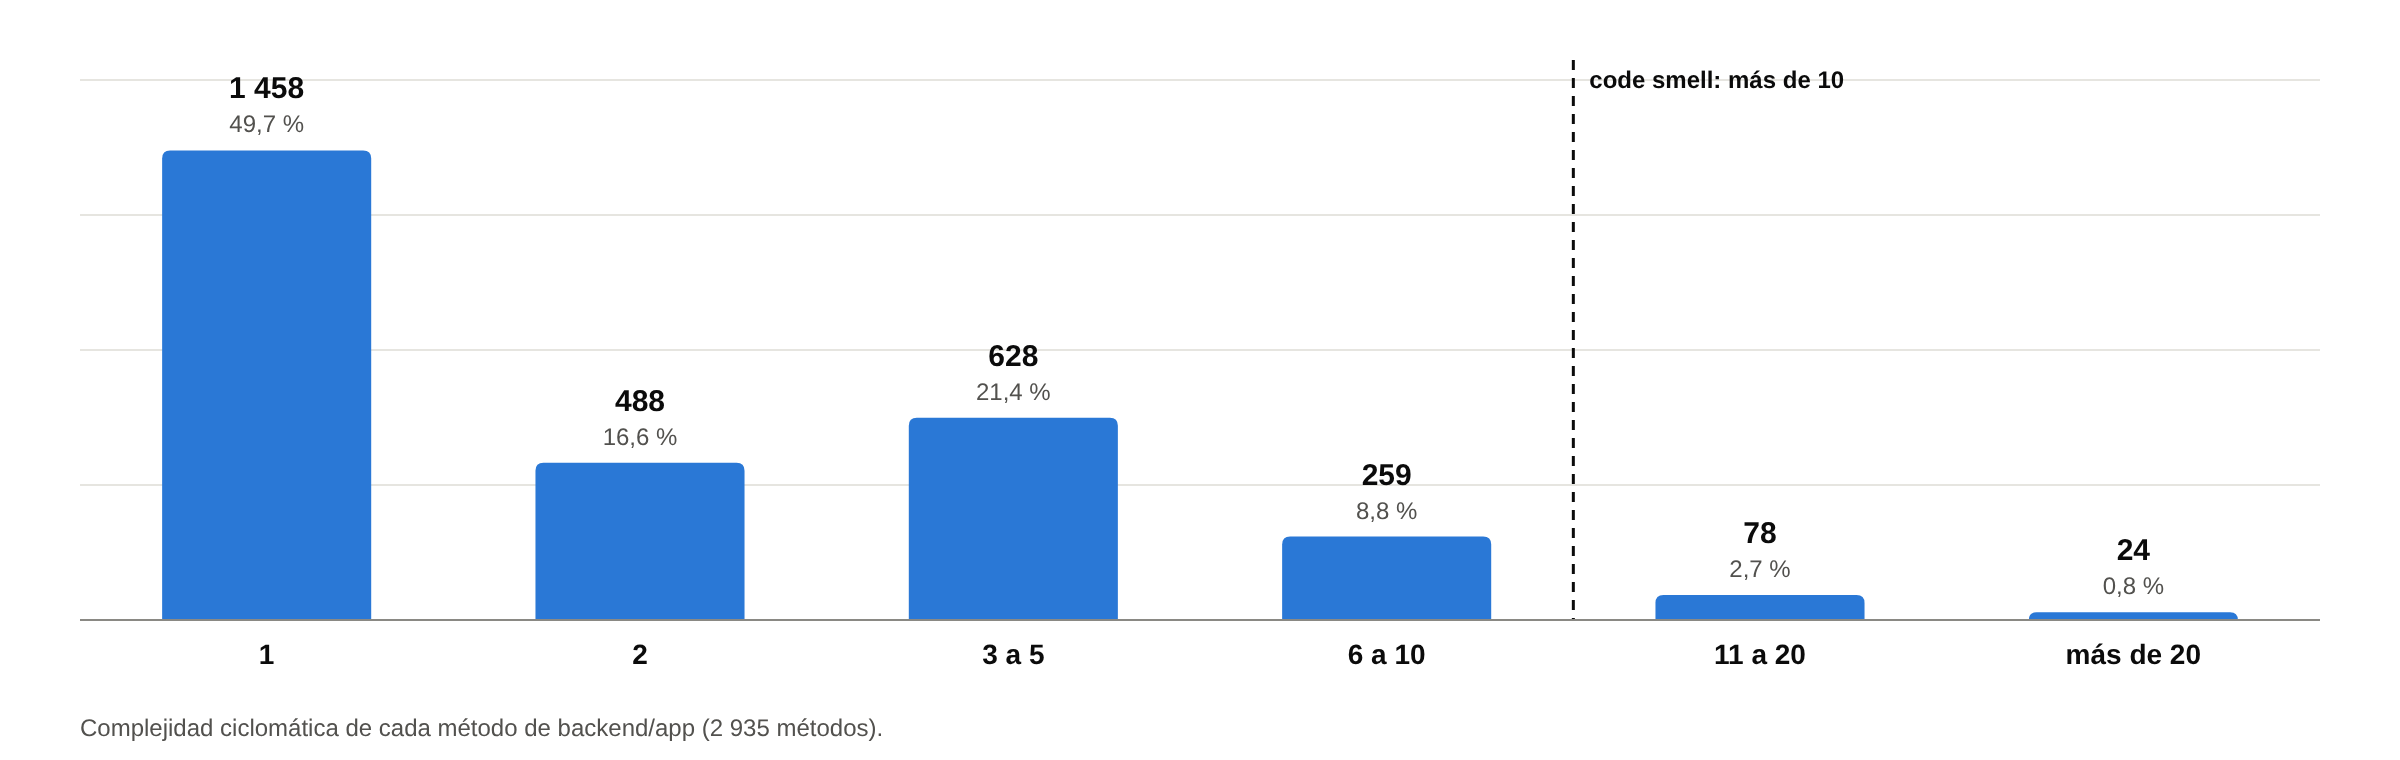
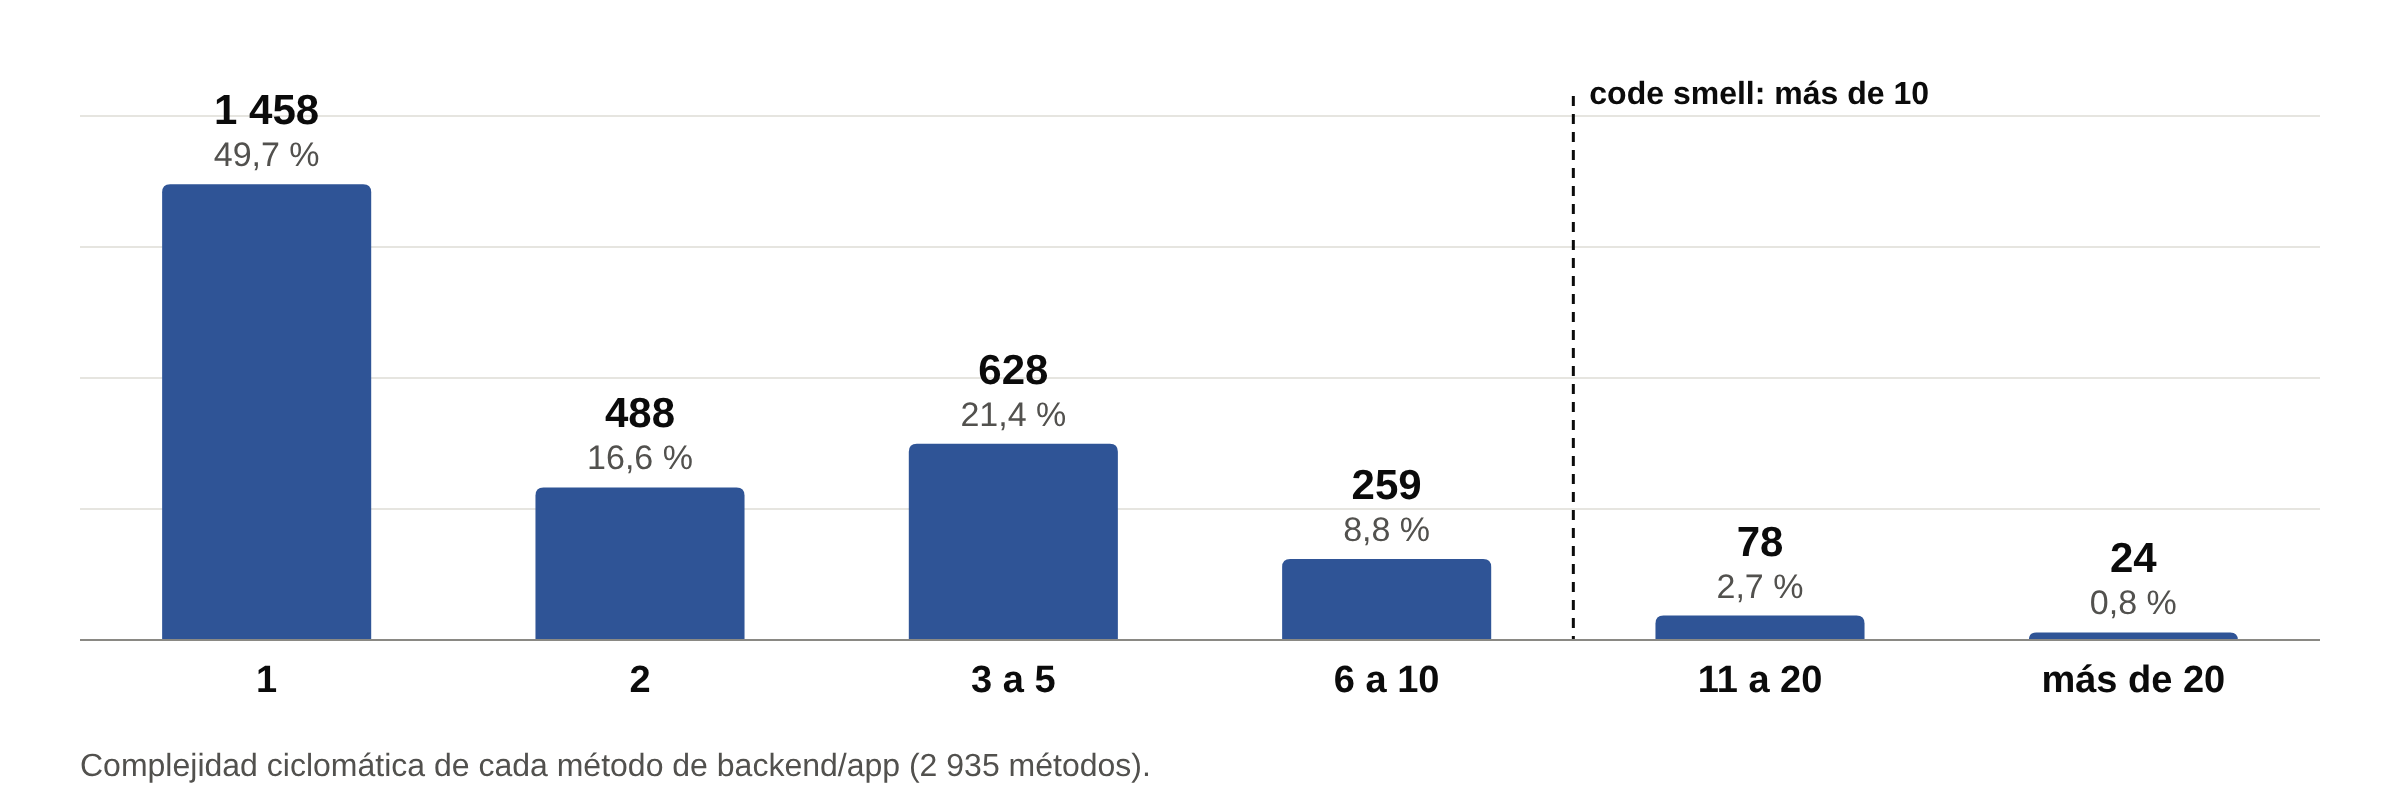
CE0241/CE0243: gráficos del E4 con letra más grande y el azul de los Word
Mismos datos que antes (reporte Clover y métricas del 19/11/2026, burnup.json); solo cambian letra y color.

Claude-Session: https://claude.ai/code/session_01BZKyWERKWSziZ7rrDHoBMv

diff --git a/docs/entregables/CE02-ingenieria-de-software/E4-gestion-y-calidad/calidad/graficos-calidad.py b/docs/entregables/CE02-ingenieria-de-software/E4-gestion-y-calidad/calidad/graficos-calidad.py
@@ -1,8 +1,9 @@
 """Gráficos de calidad del E4: cobertura de líneas por capa y complejidad ciclomática de los métodos.
 
 Lee el reporte Clover de PHPUnit (pcov) y la salida --json de medir-codigo.php, y escribe dos SVG que después se
-pasan a PNG (por ejemplo con Playwright, a 2x). Un solo color de serie, rejilla suave y el valor escrito en cada
-barra, como los gráficos de avance de agil/graficos-avance.py.
+pasan a PNG (por ejemplo con Playwright, a 2x). Un solo color de serie (el azul de los Word), rejilla suave y el
+valor escrito en cada barra, como los gráficos de avance de agil/graficos-avance.py. El SVG mide 1200 de ancho y
+va a 15 o 16 cm en el Word: las letras de 16 a 21 px quedan en 6 a 8 puntos impresos.
 
 Uso, desde la raíz del repositorio:
   php docs/entregables/CE02-ingenieria-de-software/E4-gestion-y-calidad/calidad/medir-codigo.php --json > metricas.json
@@ -15,7 +16,7 @@ import sys
 import xml.etree.ElementTree as ET
 from pathlib import Path
 
-INK, INK2, MUTED, GRID, BLUE = '#0b0b0b', '#52514e', '#8a8984', '#e6e5e0', '#2a78d6'
+INK, INK2, MUTED, GRID, BLUE = '#0b0b0b', '#52514e', '#8a8984', '#e6e5e0', '#2f5496'
 FONT = 'font-family:Arial,Helvetica,sans-serif'
 
 # Capa del backend según la carpeta de app/ (la primera que coincide).
@@ -52,37 +53,37 @@ def cobertura_por_capa(clover: Path) -> list[tuple[str, int, int]]:
 
 
 def barras_horizontales(filas: list[tuple[str, int, int]], meta: float) -> str:
-    ancho, izquierda, derecha, alto_fila = 1200, 330, 150, 34
-    arriba = 46
-    alto = arriba + alto_fila * len(filas) + 40
+    ancho, izquierda, derecha, alto_fila = 1200, 370, 200, 34
+    arriba = 52
+    alto = arriba + alto_fila * len(filas) + 46
     plot = ancho - izquierda - derecha
     x = lambda porcentaje: izquierda + plot * porcentaje / 100  # noqa: E731
     svg = [f'<svg xmlns="http://www.w3.org/2000/svg" width="{ancho}" height="{alto}" viewBox="0 0 {ancho} {alto}">',
            '<rect width="100%" height="100%" fill="#fff"/>']
     for porcentaje in range(0, 101, 20):
-        svg.append(f'<line x1="{x(porcentaje)}" x2="{x(porcentaje)}" y1="{arriba - 6}" y2="{alto - 34}" stroke="{GRID}"/>')
-        svg.append(f'<text x="{x(porcentaje)}" y="{alto - 14}" text-anchor="middle" style="{FONT};font-size:12px" '
+        svg.append(f'<line x1="{x(porcentaje)}" x2="{x(porcentaje)}" y1="{arriba - 6}" y2="{alto - 40}" stroke="{GRID}"/>')
+        svg.append(f'<text x="{x(porcentaje)}" y="{alto - 14}" text-anchor="middle" style="{FONT};font-size:16px" '
                    f'fill="{INK2}">{porcentaje} %</text>')
-    svg.append(f'<line x1="{x(meta)}" x2="{x(meta)}" y1="{arriba - 14}" y2="{alto - 34}" stroke="{INK}" '
+    svg.append(f'<line x1="{x(meta)}" x2="{x(meta)}" y1="{arriba - 14}" y2="{alto - 40}" stroke="{INK}" '
                'stroke-width="1.5" stroke-dasharray="5 4"/>')
-    svg.append(f'<text x="{x(meta)}" y="{arriba - 20}" text-anchor="middle" style="{FONT};font-size:12px;font-weight:700" '
+    svg.append(f'<text x="{x(meta)}" y="{arriba - 20}" text-anchor="middle" style="{FONT};font-size:16px;font-weight:700" '
                f'fill="{INK}">mínimo de la CI: {meta:.0f} %</text>')
     for i, (nombre, total, cubiertas) in enumerate(filas):
         porcentaje = 100 * cubiertas / total
         y = arriba + i * alto_fila
-        alto_barra = alto_fila - 12
+        alto_barra = alto_fila - 10
         largo = x(porcentaje) - izquierda
-        svg.append(f'<text x="{izquierda - 12}" y="{y + alto_barra / 2 + 5}" text-anchor="end" '
-                   f'style="{FONT};font-size:14px" fill="{INK}">{nombre}</text>')
+        svg.append(f'<text x="{izquierda - 12}" y="{y + alto_barra / 2 + 7}" text-anchor="end" '
+                   f'style="{FONT};font-size:20px" fill="{INK}">{nombre}</text>')
         svg.append(f'<path d="M{izquierda},{y} H{izquierda + largo - 4} Q{izquierda + largo},{y} {izquierda + largo},{y + 4} '
                    f'V{y + alto_barra - 4} Q{izquierda + largo},{y + alto_barra} {izquierda + largo - 4},{y + alto_barra} '
                    f'H{izquierda} Z" fill="{BLUE}"/>')
         texto = f'{porcentaje:.1f} %'.replace('.', ',')
-        svg.append(f'<text x="{izquierda + largo + 8}" y="{y + alto_barra / 2 + 5}" style="{FONT};font-size:14px;'
+        svg.append(f'<text x="{izquierda + largo + 8}" y="{y + alto_barra / 2 + 7}" style="{FONT};font-size:20px;'
                    f'font-weight:700" fill="{INK}" stroke="#fff" stroke-width="5" paint-order="stroke">{texto}</text>')
-        svg.append(f'<text x="{ancho - 8}" y="{y + alto_barra / 2 + 5}" text-anchor="end" style="{FONT};font-size:12px" '
+        svg.append(f'<text x="{ancho - 8}" y="{y + alto_barra / 2 + 6}" text-anchor="end" style="{FONT};font-size:17px" '
                    f'fill="{INK2}">{miles(cubiertas)} de {miles(total)}</text>')
-    svg.append(f'<line x1="{izquierda}" x2="{izquierda}" y1="{arriba - 6}" y2="{alto - 34}" stroke="{MUTED}"/>')
+    svg.append(f'<line x1="{izquierda}" x2="{izquierda}" y1="{arriba - 6}" y2="{alto - 40}" stroke="{MUTED}"/>')
     svg.append('</svg>')
     return '\n'.join(svg)
 
@@ -92,7 +93,7 @@ def histograma_complejidad(metricas: dict) -> str:
     complejidades = [metodo['complejidad'] for metodo in metricas['metodos']]
     cuentas = [sum(1 for c in complejidades if desde <= c <= hasta) for _, desde, hasta in rangos]
     total = len(complejidades)
-    ancho, alto, izquierda, derecha, arriba, abajo = 1200, 380, 40, 40, 40, 70
+    ancho, alto, izquierda, derecha, arriba, abajo = 1200, 400, 40, 40, 58, 80
     plot_ancho, plot_alto = ancho - izquierda - derecha, alto - arriba - abajo
     maximo = max(cuentas) * 1.15
     ancho_barra = plot_ancho / len(rangos) * 0.56
@@ -110,20 +111,20 @@ def histograma_complejidad(metricas: dict) -> str:
         svg.append(f'<path d="M{x},{base} V{y + radio} Q{x},{y} {x + radio},{y} H{x + ancho_barra - radio} '
                    f'Q{x + ancho_barra},{y} {x + ancho_barra},{y + radio} V{base} Z" fill="{BLUE}"/>')
         porcentaje = f'{100 * cuenta / total:.1f} %'.replace('.', ',')
-        svg.append(f'<text x="{cx}" y="{y - 26}" text-anchor="middle" style="{FONT};font-size:15px;font-weight:700" '
+        svg.append(f'<text x="{cx}" y="{y - 30}" text-anchor="middle" style="{FONT};font-size:21px;font-weight:700" '
                    f'fill="{INK}">{miles(cuenta)}</text>')
-        svg.append(f'<text x="{cx}" y="{y - 9}" text-anchor="middle" style="{FONT};font-size:12px" fill="{INK2}">'
+        svg.append(f'<text x="{cx}" y="{y - 9}" text-anchor="middle" style="{FONT};font-size:17px" fill="{INK2}">'
                    f'{porcentaje}</text>')
-        svg.append(f'<text x="{cx}" y="{base + 22}" text-anchor="middle" style="{FONT};font-size:14px;font-weight:700" '
+        svg.append(f'<text x="{cx}" y="{base + 26}" text-anchor="middle" style="{FONT};font-size:19px;font-weight:700" '
                    f'fill="{INK}">{nombre}</text>')
     # Separa los rangos que el registro de code smells marca como "método complejo" (más de 10).
     limite = izquierda + plot_ancho * 4 / len(rangos)
     svg.append(f'<line x1="{limite}" x2="{limite}" y1="{arriba - 10}" y2="{base}" stroke="{INK}" stroke-width="1.5" '
                'stroke-dasharray="5 4"/>')
-    svg.append(f'<text x="{limite + 8}" y="{arriba + 4}" style="{FONT};font-size:12px;font-weight:700" fill="{INK}">'
+    svg.append(f'<text x="{limite + 8}" y="{arriba - 6}" style="{FONT};font-size:16px;font-weight:700" fill="{INK}">'
                'code smell: más de 10</text>')
     svg.append(f'<line x1="{izquierda}" x2="{ancho - derecha}" y1="{base}" y2="{base}" stroke="{MUTED}"/>')
-    svg.append(f'<text x="{izquierda}" y="{alto - 12}" style="{FONT};font-size:12px" fill="{INK2}">Complejidad '
+    svg.append(f'<text x="{izquierda}" y="{alto - 12}" style="{FONT};font-size:16px" fill="{INK2}">Complejidad '
                f'ciclomática de cada método de backend/app ({miles(total)} métodos).</text>')
     svg.append('</svg>')
     return '\n'.join(svg)

diff --git a/docs/entregables/CE02-ingenieria-de-software/E4-gestion-y-calidad/agil/graficos-avance.py b/docs/entregables/CE02-ingenieria-de-software/E4-gestion-y-calidad/agil/graficos-avance.py
@@ -9,31 +9,31 @@ Uso: python3 graficos-avance.py <carpeta con burnup.json>   (escribe <carpeta>/g
 """
 import json,sys,datetime as dt
 S=sys.argv[1]
-INK='#0b0b0b'; INK2='#52514e'; MUTED='#8a8984'; GRID='#e6e5e0'; BLUE='#2a78d6'; BAND='#f1f0ec'
+INK='#0b0b0b'; INK2='#52514e'; MUTED='#8a8984'; GRID='#e6e5e0'; BLUE='#2f5496'; BAND='#eef2f8'
 FONT="font-family:Arial,Helvetica,sans-serif"
 sprints=[('S1','19–25 oct'),('S2','2–8 nov'),('S3','9–15 nov'),('S4','16–19 nov')]
 panels=[('PR fusionados',[25,28,44,18]),('Commits (sin fusiones)',[30,57,76,40]),('Métodos de prueba del backend al cierre',[265,453,941,986])]
 def bars(x0,w,h,title,vals):
-    top=48; base=top+h; mx=max(vals)*1.12; bw=w/len(vals)*0.56; out=[]
-    out.append(f'<text x="{x0}" y="22" style="{FONT};font-size:15px;font-weight:700" fill="{INK}">{title}</text>')
+    top=60; base=top+h; mx=max(vals)*1.15; bw=w/len(vals)*0.56; out=[]
+    out.append(f'<text x="{x0}" y="24" style="{FONT};font-size:19px;font-weight:700" fill="{INK}">{title}</text>')
     for k in range(0,5):
         y=base-h*k/4
         out.append(f'<line x1="{x0}" x2="{x0+w}" y1="{y}" y2="{y}" stroke="{GRID}" stroke-width="1"/>')
     for i,v in enumerate(vals):
         cx=x0+w*(i+0.5)/len(vals); bh=h*v/mx; x=cx-bw/2; y=base-bh
         out.append(f'<path d="M{x},{base} V{y+4} Q{x},{y} {x+4},{y} H{x+bw-4} Q{x+bw},{y} {x+bw},{y+4} V{base} Z" fill="{BLUE}"/>')
-        out.append(f'<text x="{cx}" y="{y-7}" text-anchor="middle" style="{FONT};font-size:14px;font-weight:700" fill="{INK}">{v}</text>')
-        out.append(f'<text x="{cx}" y="{base+20}" text-anchor="middle" style="{FONT};font-size:13px;font-weight:700" fill="{INK}">{sprints[i][0]}</text>')
-        out.append(f'<text x="{cx}" y="{base+37}" text-anchor="middle" style="{FONT};font-size:12px" fill="{INK2}">{sprints[i][1]}</text>')
+        out.append(f'<text x="{cx}" y="{y-8}" text-anchor="middle" style="{FONT};font-size:19px;font-weight:700" fill="{INK}">{v}</text>')
+        out.append(f'<text x="{cx}" y="{base+24}" text-anchor="middle" style="{FONT};font-size:18px;font-weight:700" fill="{INK}">{sprints[i][0]}</text>')
+        out.append(f'<text x="{cx}" y="{base+46}" text-anchor="middle" style="{FONT};font-size:16px" fill="{INK2}">{sprints[i][1]}</text>')
     out.append(f'<line x1="{x0}" x2="{x0+w}" y1="{base}" y2="{base}" stroke="{MUTED}" stroke-width="1"/>')
     return '\n'.join(out)
 W=1200; svg1=[f'<svg xmlns="http://www.w3.org/2000/svg" width="{W}" height="300" viewBox="0 0 {W} 300"><rect width="100%" height="100%" fill="#fff"/>']
 pw=(W-2*40)/3
-for i,(t,v) in enumerate(panels): svg1.append(bars(20+i*(pw+20),pw-20,190,t,v))
+for i,(t,v) in enumerate(panels): svg1.append(bars(20+i*(pw+20),pw-20,180,t,v))
 svg1.append('</svg>')
 rows=json.load(open(f'{S}/burnup.json'))
 d0=dt.date.fromisoformat(rows[0][0]); n=len(rows)
-L,R,T,B=60,30,40,60; H=360; plotw=W-L-R; ploth=H-T-B; ymax=120
+L,R,T,B=64,30,46,66; H=360; plotw=W-L-R; ploth=H-T-B; ymax=120
 X=lambda i:L+plotw*i/(n-1); Y=lambda v:T+ploth*(1-v/ymax)
 svg2=[f'<svg xmlns="http://www.w3.org/2000/svg" width="{W}" height="{H}" viewBox="0 0 {W} {H}"><rect width="100%" height="100%" fill="#fff"/>']
 idx={r[0]:i for i,r in enumerate(rows)}
@@ -41,23 +41,23 @@ bands=[('S1','2026-10-22','2026-10-25'),('Pausa','2026-10-26','2026-11-01'),('S2
 for name,a,b in bands:
     xa=X(idx[a])-(0 if a==rows[0][0] else plotw/(n-1)/2); xb=X(idx[b])+(0 if b==rows[-1][0] else plotw/(n-1)/2)
     if name!='Pausa': svg2.append(f'<rect x="{xa+2}" y="{T}" width="{xb-xa-4}" height="{ploth}" fill="{BAND}"/>')
-    svg2.append(f'<text x="{(xa+xb)/2}" y="{T-12}" text-anchor="middle" style="{FONT};font-size:13px;font-weight:700" fill="{INK2 if name=="Pausa" else INK}">{name}</text>')
+    svg2.append(f'<text x="{(xa+xb)/2}" y="{T-14}" text-anchor="middle" style="{FONT};font-size:18px;font-weight:700" fill="{INK2 if name=="Pausa" else INK}">{name}</text>')
 for v in range(0,ymax+1,20):
     svg2.append(f'<line x1="{L}" x2="{W-R}" y1="{Y(v)}" y2="{Y(v)}" stroke="{GRID}"/>')
-    svg2.append(f'<text x="{L-8}" y="{Y(v)+4}" text-anchor="end" style="{FONT};font-size:12px" fill="{INK2}">{v}</text>')
+    svg2.append(f'<text x="{L-10}" y="{Y(v)+6}" text-anchor="end" style="{FONT};font-size:16px" fill="{INK2}">{v}</text>')
 pts=' '.join(f'{X(i)},{Y(r[2])}' for i,r in enumerate(rows))
 svg2.append(f'<polyline points="{pts}" fill="none" stroke="{BLUE}" stroke-width="2.5" stroke-linejoin="round"/>')
 for i,r in enumerate(rows):
     if r[1]: svg2.append(f'<circle cx="{X(i)}" cy="{Y(r[2])}" r="4.5" fill="{BLUE}" stroke="#fff" stroke-width="2"/>')
 for lab in ['2026-10-24','2026-11-07','2026-11-14','2026-11-19']:
     i=idx[lab]; v=rows[i][2]
-    svg2.append(f'<text x="{X(i)}" y="{Y(v)-12}" text-anchor="{"end" if lab=="2026-11-19" else "middle"}" style="{FONT};font-size:13px;font-weight:700" fill="{INK}">{v}</text>')
+    svg2.append(f'<text x="{X(i)}" y="{Y(v)-12}" text-anchor="{"end" if lab=="2026-11-19" else "middle"}" style="{FONT};font-size:18px;font-weight:700" fill="{INK}">{v}</text>')
 meses={10:'oct',11:'nov'}
 for i,r in enumerate(rows):
     d=dt.date.fromisoformat(r[0])
     if d.day in (22,26) and d.month==10 or (d.month==11 and d.day in (2,9,16,19)):
-        svg2.append(f'<text x="{X(i)}" y="{H-B+20}" text-anchor="middle" style="{FONT};font-size:12px" fill="{INK2}">{d.day} {meses[d.month]}</text>')
+        svg2.append(f'<text x="{X(i)}" y="{H-B+24}" text-anchor="middle" style="{FONT};font-size:16px" fill="{INK2}">{d.day} {meses[d.month]}</text>')
 svg2.append(f'<line x1="{L}" x2="{W-R}" y1="{Y(0)}" y2="{Y(0)}" stroke="{MUTED}"/>')
-svg2.append(f'<text x="{L}" y="{H-12}" style="{FONT};font-size:12px" fill="{INK2}">PR fusionados acumulados en los dos repositorios (consultorio-dental hasta el 17/11 y venga-implantes desde el 18/11), por día de fusión en hora de Lima.</text>')
+svg2.append(f'<text x="{L}" y="{H-12}" style="{FONT};font-size:15px" fill="{INK2}">PR fusionados acumulados: consultorio-dental hasta el 17/11 y venga-implantes desde el 18/11, por día de fusión (hora de Lima).</text>')
 svg2.append('</svg>')
 open(f'{S}/graf/velocidad.svg','w').write('\n'.join(svg1)); open(f'{S}/graf/burnup.svg','w').write('\n'.join(svg2))
